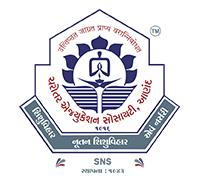
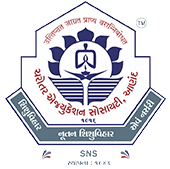
image crop and live at website

diff --git a/src/Components/OurClients/ContactUsClientData.jsx b/src/Components/OurClients/ContactUsClientData.jsx
@@ -146,7 +146,7 @@ import AISHWARYA from "./DirectClients/AISHWARYASAREE.png"
 import AMARNATHPROJECTS from "./DirectClients/AMARNATHPROJECTS.png"
 import AMUL from "./DirectClients/AMUL.png"
 import APOLLOHOSPITALS from "./DirectClients/APOLLOHOSPITALS.jfif"
-import ARISTABUILDCON from "./DirectClients/ARISTABUILDCON.jfif"
+import ARISTABUILDCON from "./DirectClients/ARISTABUILDCON.jpg"
 import ARJUNGROUP from "./DirectClients/ARJUNGROUP.jpg"
 import ASHIRVADFOUNDATION from "./DirectClients/ASHIRVADFOUNDATION.png"
 import ASTRALBATHWEAR from "./DirectClients/ASTRALBATHWEAR.png"
@@ -189,7 +189,7 @@ import CRAFTROOTS from "./DirectClients/CRAFTROOTS.jpg"
 import CROMA from "./DirectClients/CROMA.webp"
 import CRYOWELLNESS from "./DirectClients/CRYOWELLNESS.png"
 import DANNYJIGAR from "./DirectClients/DANNYJIGAR.webp"
-import DBCORPLTD from "./DirectClients/DBCORPLTD.jfif"
+import DBCORPLTD from "./DirectClients/DBCORPLTD.jpg"
 import DECATHLON from "./DirectClients/DECATHLON.webp"
 import DEEPBUILDER from "./DirectClients/DEEPBUILDER.png"
 import DELHIINSTITUTE from "./DirectClients/DELHIINSTITUTE.jpg"
@@ -215,7 +215,7 @@ import GANDHINAGARUNIVERSITY from "./DirectClients/GANDHINAGARUNIVERSITY.jpg"
 import GANESHGROUP from "./DirectClients/GANESHGROUP.png"
 import GANESHINFRA from "./DirectClients/GANESHINFRA.jfif"
 import GAURAVVANTAGUJARATIAWARDS from "./DirectClients/GAURAVVANTA-GUJARATI-AWARDS.jfif"
-import GCCI from "./DirectClients/GCCI.webp"
+import GCCI from "./DirectClients/GCCI.jpg"
 import GERMANTMX from "./DirectClients/GERMAN-TMX.png"
 import GHARWAKHRIFURNITURE from "./DirectClients/GHARWAKHRI-FURNITURE.jpg"
 import GLOBALREACHOVERSEASEDUCATION from "./DirectClients/GLOBAL-REACH-OVERSEAS-EDUCATION.jfif"
@@ -252,22 +252,23 @@ import KASUMBOMOVIE from "./DirectClients/KASUMBO-MOVIE.jfif"
 import KITCHENEXPRESS from "./DirectClients/KITCHEN-EXPRESS.png"
 import KKJEWELS from "./DirectClients/KK-JEWELS.png"
 import KOHINOOROPTICAL from "./DirectClients/KOHINOOR-OPTICAL.svg"
+import KOHINOORRICE from "./DirectClients/KOHINOOR-RICE.png"
 import KUTCHEXPRESSMOVIE from "./DirectClients/KUTCH-EXPRESSMOVIE.webp"
 import LAKIROMOVIE from "./DirectClients/LAKIRO-MOVIE.jpeg"
-import LENDINGKART from "./DirectClients/LENDINGKART.jfif"
+import LENDINGKART from "./DirectClients/LENDINGKART.jpg"
 import LIBERTYCAREERACADEMY from "./DirectClients/LIBERTY CAREER-ACADEMY.png"
 import LONGINESWATCHES from "./DirectClients/LONGINES-WATCHES.png"
 import LOUISEPHILIPPE from "./DirectClients/LOUISE-PHILIPPE.jpg"
 import LIC from "./DirectClients/LIC.png"
-import LUIRE from "./DirectClients/LUIRE.avif"
+import LUIRE from "./DirectClients/LUIRE.jpg"
 import LYCKABUILDERS from "./DirectClients/LYCKA-BUILDERS.jfif"
 import MAKEMYTRIP from "./DirectClients/MAKE-0MY-TRIP.svg"
 import MALABARGOLD from "./DirectClients/MALABAR-GOLD.jpg"
-import MANUBHAIZAVERI from "./DirectClients/MANUBHAI-ZAVERI.jfif"
+import MANUBHAIZAVERI from "./DirectClients/MANUBHAI-ZAVERI.jpg"
 import MARIGOLDHOSPITAL from "./DirectClients/MARIGOLD-HOSPITAL.jpg"
 import MARUTI360 from "./DirectClients/MARUTI-360.png"
 import MARUTINEXA from "./DirectClients/MARUTI-NEXA.png"
-import MATTERMOTOR from "./DirectClients/MATTER-MOTOR.avif"
+import MATTERMOTOR from "./DirectClients/MATTER-MOTOR.jpg"
 import MAXFASHION from "./DirectClients/MAX-FASHION.png"
 import MEESHOCOM from "./DirectClients/MEESHO-COM.png"
 import MIABYTANISHQ from "./DirectClients/MIA-BY-TANISHQ.png"
@@ -284,7 +285,7 @@ import NAVRANGSISHU from "./DirectClients/NAVRANG-SISHU.png"
 import NESTERRA from "./DirectClients/NESTERRA.png"
 import NEWS18 from "./DirectClients/NEWS-18.png"
 import NEXONEVTATA from "./DirectClients/NEXON-EV-TATA.jpg"
-import NIMBANATURECURE from "./DirectClients/NIMBA-NATURE-CURE.jfif"
+import NIMBANATURECURE from "./DirectClients/NIMBA-NATURE-CURE.jpg"
 const DirectClient = [
     {
         clientImg: NIMBANATURECURE,
@@ -518,7 +519,7 @@ const DirectClient = [
         Category: "Media & Entertainment"
     },
     {
-        clientImg: KOHINOOROPTICAL,
+        clientImg: KOHINOORRICE,
         clientWebLink: "https://kohinoorindia.co.in/",
         ClientName: "KOHINOOR RICE",
         Backcolor: "white",
